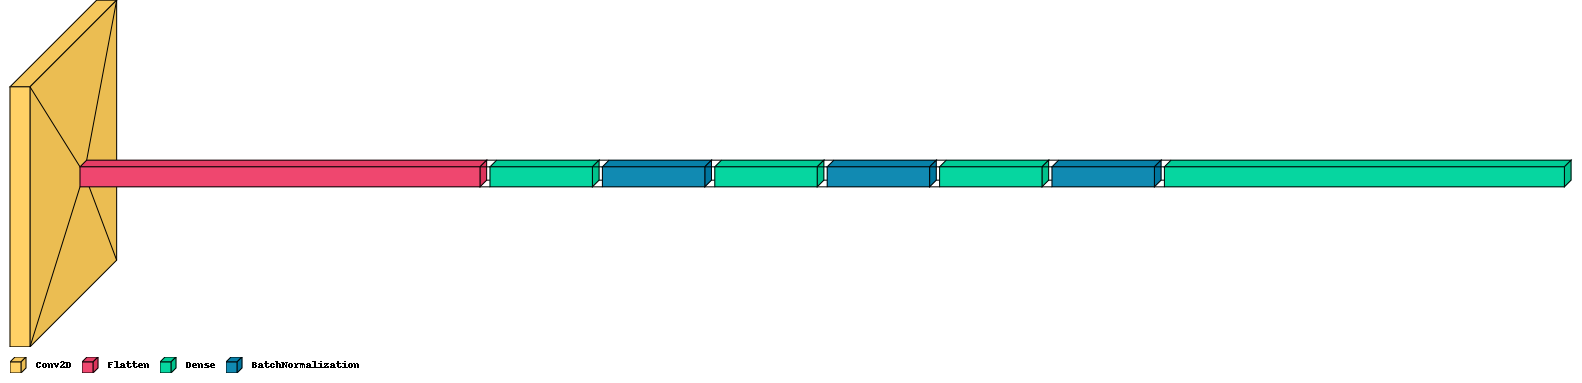
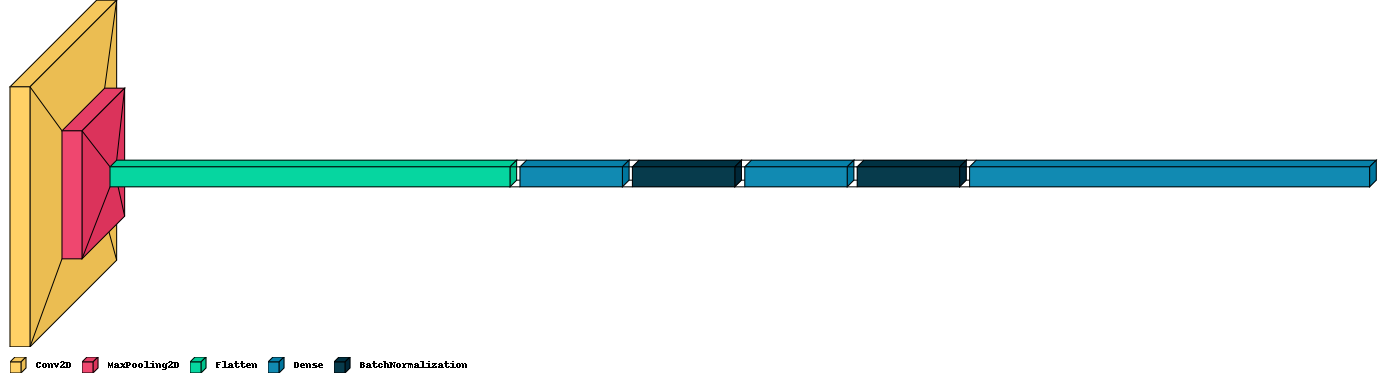
a try

diff --git a/net.py b/net.py
@@ -421,12 +421,15 @@ class Region_CNN(EEG_CNN):
 
             # add input layer
             self.model.add(keras.Input(shape=(self.eeg_topographies.shape[1], self.eeg_topographies.shape[2],1), name='Input'))
-            self.model.add(Conv2D(8, kernel_size=(3, 3), activation='relu'))
+            self.model.add(Conv2D(32, kernel_size=(3, 3), activation='relu'))
+            self.model.add(MaxPooling2D(pool_size=(3, 3)))
             #self.model.add(BatchNormalization())
             self.model.add(Flatten())            
-            self.model.add(Dense(1024, activation='relu'))
+            self.model.add(Dense(5096, activation='relu'))
             self.model.add(BatchNormalization())
-            self.model.add(Dense(1024, activation='relu'))
+            self.model.add(Dense(5096, activation='relu'))
+            self.model.add(BatchNormalization())
+            self.model.add(Dense(5096, activation='relu'))
             self.model.add(BatchNormalization())
             # Add output layer
             self.model.add(Dense(self.n_dipoles, activation='relu', name='OutputLayer'))
